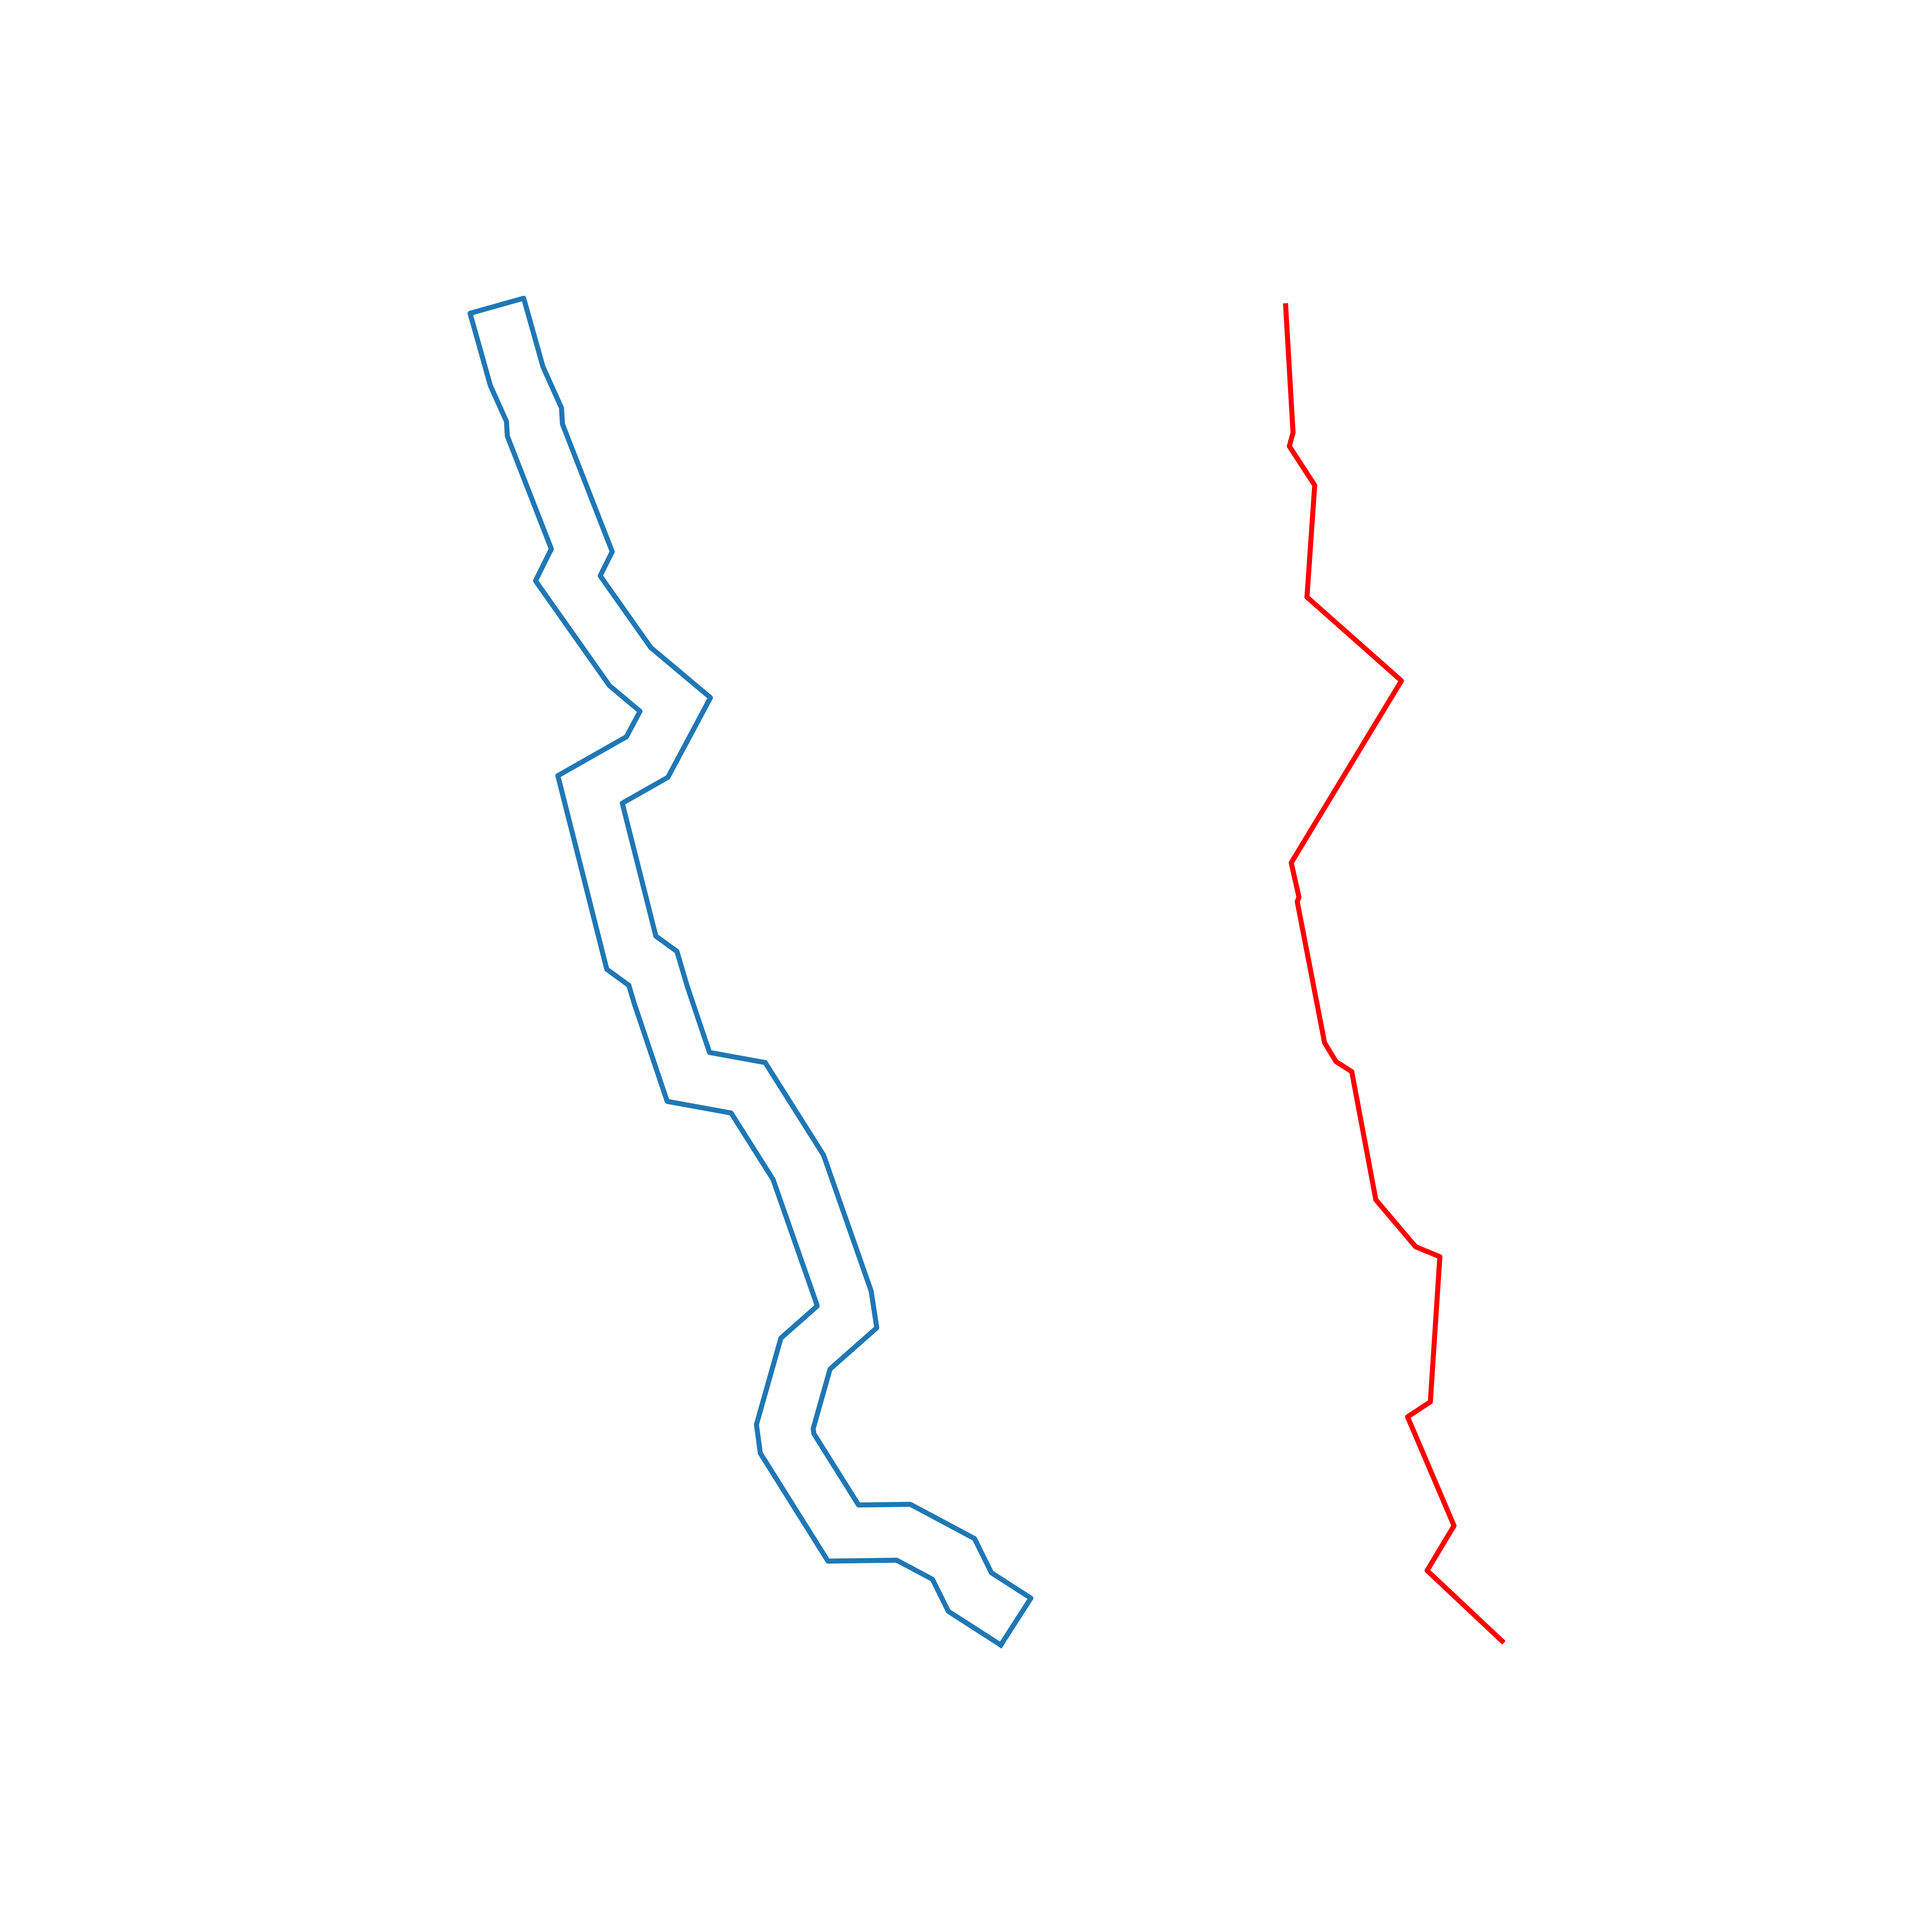
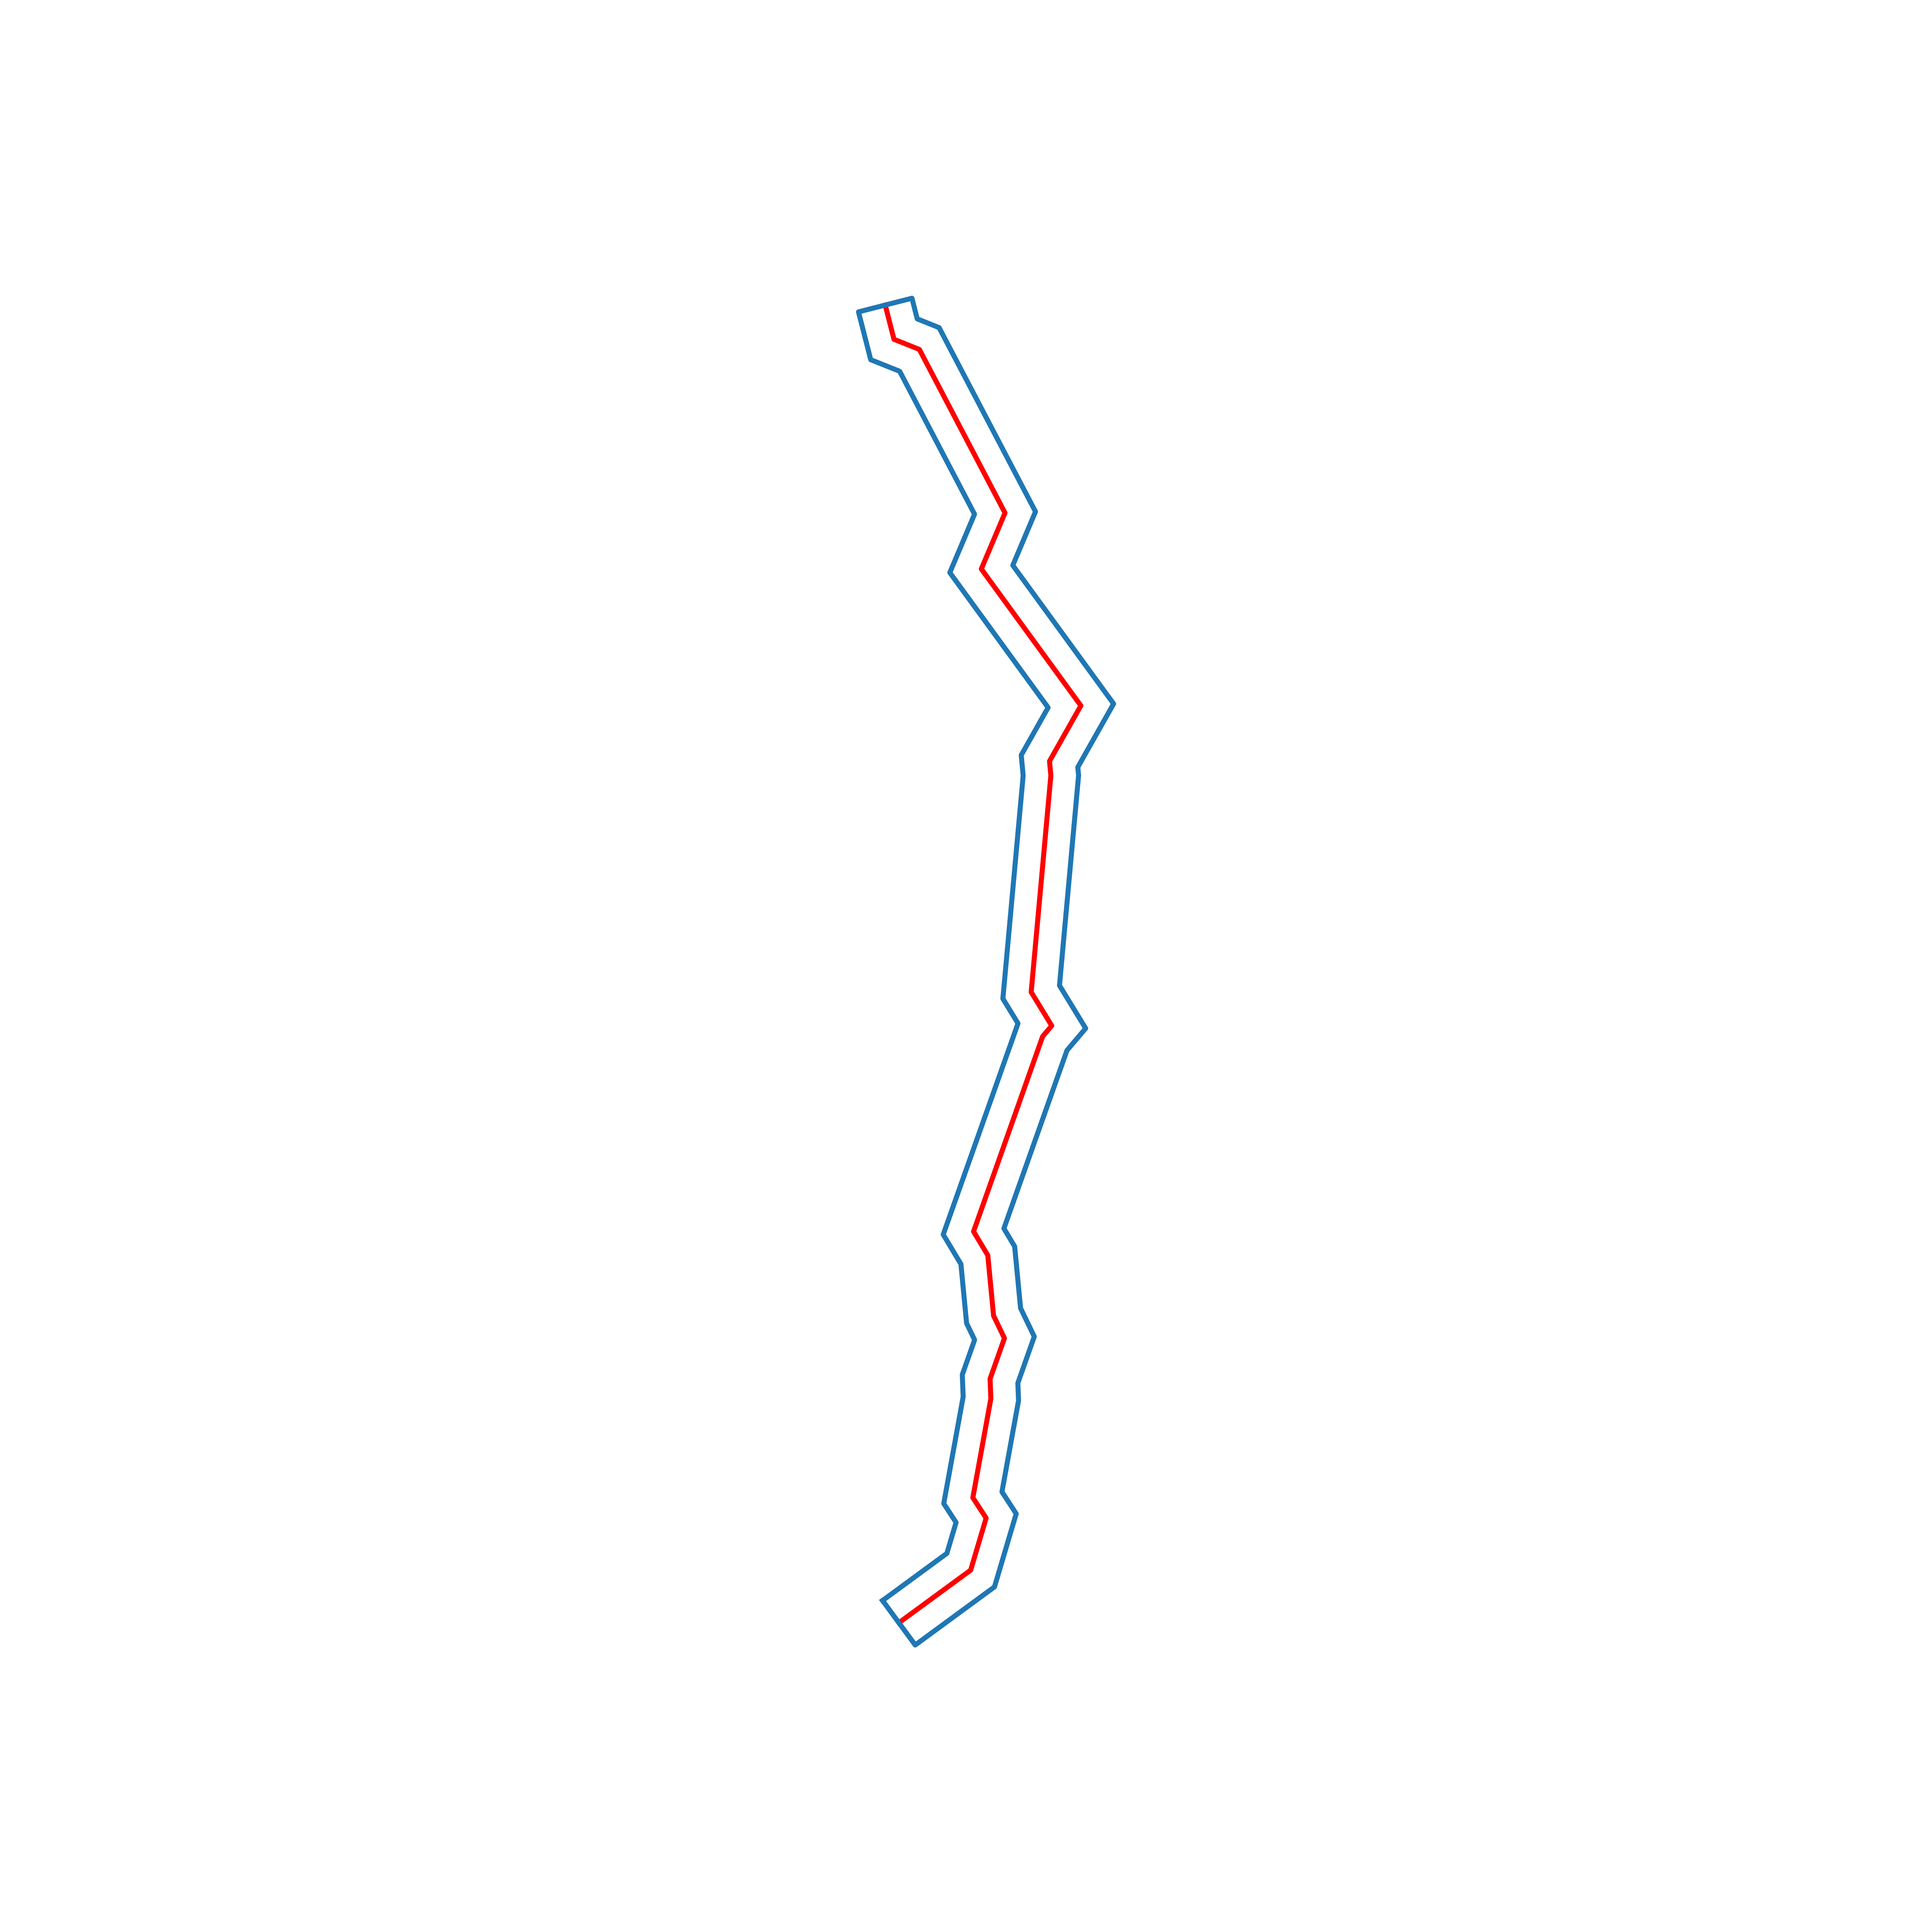
Files for presentation are valid

diff --git a/river_generation/temp/river_generation_test.py b/river_generation/temp/river_generation_test.py
@@ -48,66 +48,67 @@ def viz_river_generation(voronoi: foronoi.Voronoi, edges=None, points=None, path
     return viz
 
 
-def test_voronoi():
+def test_generation():
+    base_path = '../../presentation/'
     rg = RiverGeneration(1000, 100)
     viz = viz_river_generation(rg.voronoi)
     viz.canvas.set_axis_off()
-    viz.canvas.figure.savefig('base_voronoi1.png', dpi=600, transparent=True)
+    viz.canvas.figure.savefig(base_path + 'base_voronoi1.png', dpi=600, transparent=True)
     viz.canvas.set_axis_on()
     import matplotlib.pyplot as plt
-    plt.gca().clear()
     plt.gca().set_aspect('equal')
-    path = rg.get_river_path()
+    river_geom = rg.get_river_geom(20, smooth=True)
+    path = river_geom.path
     plt.plot(*zip(*path), color='red', lw=3)
     plt.gca().set_axis_off()
-    plt.savefig('voronoi_with_path2.png', dpi=600, transparent=True)
+    plt.savefig(base_path + 'voronoi_with_path2.png', dpi=600, transparent=True)
     plt.gca().set_axis_on()
     plt.gca().clear()
     plt.plot(*zip(*path), color='red')
     plt.gca().set_axis_off()
-    plt.savefig('just_path3.png', dpi=600, transparent=True)
+    plt.savefig(base_path + 'just_path3.png', dpi=600, transparent=True)
     plt.gca().set_axis_on()
-    river_geom = rg.get_river_geom(20, smooth=True)
     plt.plot(*zip(*river_geom.origin_exterior))
     plt.gca().set_axis_off()
-    plt.savefig('exterior_path4.png', dpi=600, transparent=True)
+    plt.savefig(base_path + 'exterior_path4.png', dpi=600, transparent=True)
     plt.gca().set_axis_on()
     plt.gca().clear()
     plt.plot(*zip(*path), color='red')
     plt.plot(*zip(*river_geom.exterior))
     plt.gca().set_axis_off()
-    plt.savefig('smooth_exterior_path5.png', dpi=600, transparent=True)
+    plt.savefig(base_path + 'smooth_exterior_path5.png', dpi=600, transparent=True)
     plt.gca().set_axis_on()
     og = ObstaclesGeneration(river_geom, (15, 30), (5, 5))
     obstacle_groups = og.get_obstacle_groups()
     for group in obstacle_groups:
-        plt.plot(*zip(*group.control_line), color='orange', lw=.7)
+        plt.plot(*zip(*group.control_line), color='orange')
     plt.gca().set_axis_off()
-    plt.savefig('smooth_exterior_path_control_lines6.png', dpi=600, transparent=True)
+    plt.savefig(base_path + 'smooth_exterior_path_control_lines6.png', dpi=600, transparent=True)
     plt.gca().set_axis_on()
     plt.gca().clear()
     plt.plot(*zip(*river_geom.exterior))
     for group in obstacle_groups:
         plt.plot(*zip(*group.control_line), color='orange')
     plt.gca().set_axis_off()
-    plt.savefig('smooth_exterior_control_lines7.png', dpi=600, transparent=True)
+    plt.savefig(base_path + 'smooth_exterior_control_lines7.png', dpi=600, transparent=True)
     plt.gca().set_axis_on()
     plt.gca().clear()
     plt.plot(*zip(*river_geom.exterior))
     for group in obstacle_groups:
-        plt.plot(*zip(*group.control_line), color='orange', lw=.7)
+        plt.plot(*zip(*group.control_line), color='orange', lw=.8)
         for box in group.obstacles:
-            plt.plot(*zip(*box.original_rect), color='magenta', lw=.7)
+            plt.plot(*zip(*box.original_rect), color='magenta', lw=.9)
     plt.gca().set_axis_off()
-    plt.savefig('smooth_exterior_control_lines_obstacles8.png', dpi=600, transparent=True)
+    plt.savefig(base_path + 'smooth_exterior_control_lines_obstacles8.png', dpi=600,
+                transparent=True)
     plt.gca().set_axis_on()
     plt.gca().clear()
     plt.plot(*zip(*river_geom.exterior))
     for group in obstacle_groups:
         for box in group.obstacles:
-            plt.plot(*zip(*box.original_rect), color='magenta', lw=.7)
+            plt.plot(*zip(*box.original_rect), color='magenta', lw=.9)
     plt.gca().set_axis_off()
-    plt.savefig('smooth_exterior_obstacles9.png', dpi=600, transparent=True)
+    plt.savefig(base_path + 'smooth_exterior_obstacles9.png', dpi=600, transparent=True)
     plt.gca().set_axis_on()
     print()
 
@@ -361,4 +362,4 @@ def main():
 
 
 if __name__ == '__main__':
-    test_voronoi()
+    test_generation()
